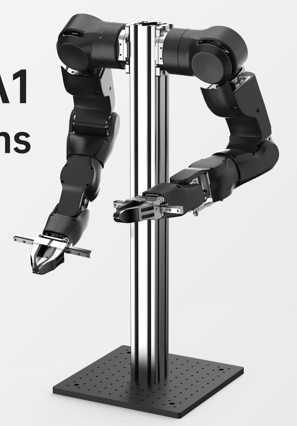
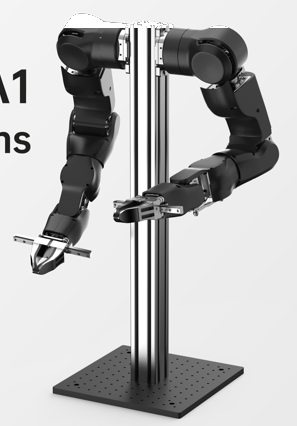
Fix WWNT brand label to WWNT Robotics; remove stray text from OpenArm image 3

diff --git a/js/product.js b/js/product.js
@@ -132,7 +132,7 @@ function renderProductPage() {
   if (price) price.textContent = formatPrice(product.price, product.currency, product.priceNote);
   if (description) description.textContent = product.description;
   if (categoryLabel) categoryLabel.textContent = CATEGORIES[product.category];
-  if (brandLabel) brandLabel.textContent = product.brand;
+  if (brandLabel) brandLabel.textContent = BRANDS[product.brand] || product.brand;
 
   if (stockBadge) {
     stockBadge.textContent = product.inStock ? "10–20 Days Production" : "Pre-Order";

diff --git a/js/store.js b/js/store.js
@@ -16,7 +16,7 @@ function productCardHtml(product) {
         <div class="product-card-body">
           <div class="product-card-meta">
             <span>${CATEGORIES[product.category] || product.category}</span>
-            <span>${product.brand}</span>
+            <span>${BRANDS[product.brand] || product.brand}</span>
           </div>
           <h3>${product.name}</h3>
           <p>${product.tagline}</p>

diff --git a/product.html b/product.html
@@ -136,6 +136,6 @@
     <script src="js/include.js?v=20260913b"></script>
     <script src="js/mobile.js?v=20260922"></script>
     <script src="js/data.js?v=20260913b"></script>
-    <script src="js/product.js?v=20260911"></script>
+    <script src="js/product.js?v=20260913"></script>
   </body>
 </html>

diff --git a/store.html b/store.html
@@ -116,6 +116,6 @@
     <script src="js/include.js?v=20260913b"></script>
     <script src="js/mobile.js?v=20260922"></script>
     <script src="js/data.js?v=20260913b"></script>
-    <script src="js/store.js?v=20260911"></script>
+    <script src="js/store.js?v=20260913"></script>
   </body>
 </html>
